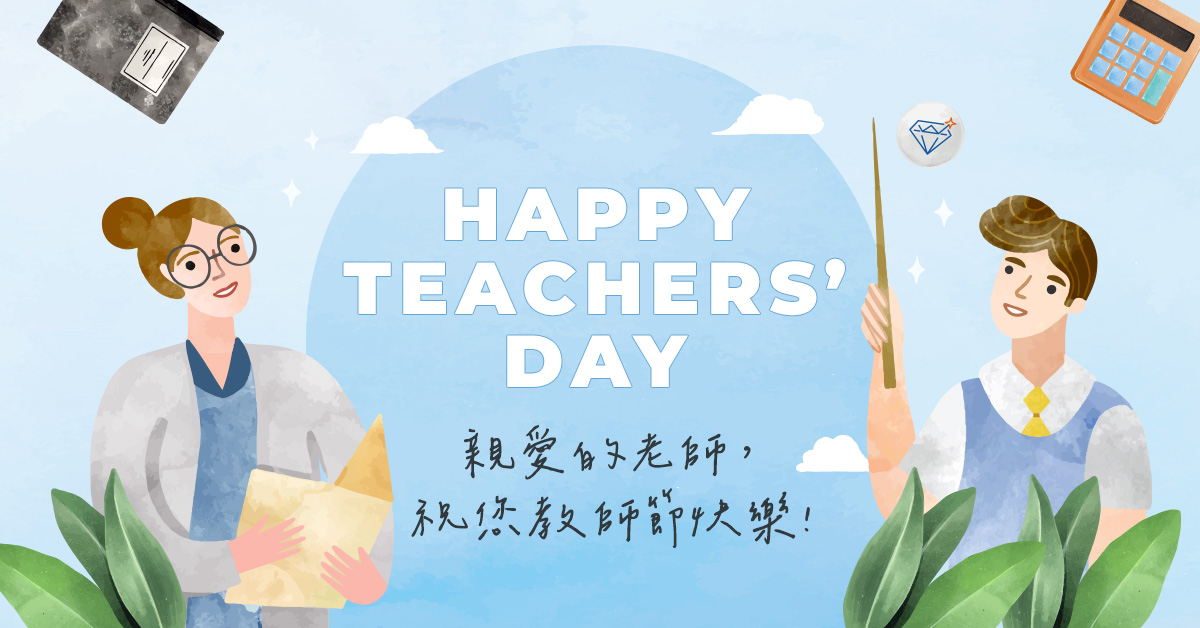
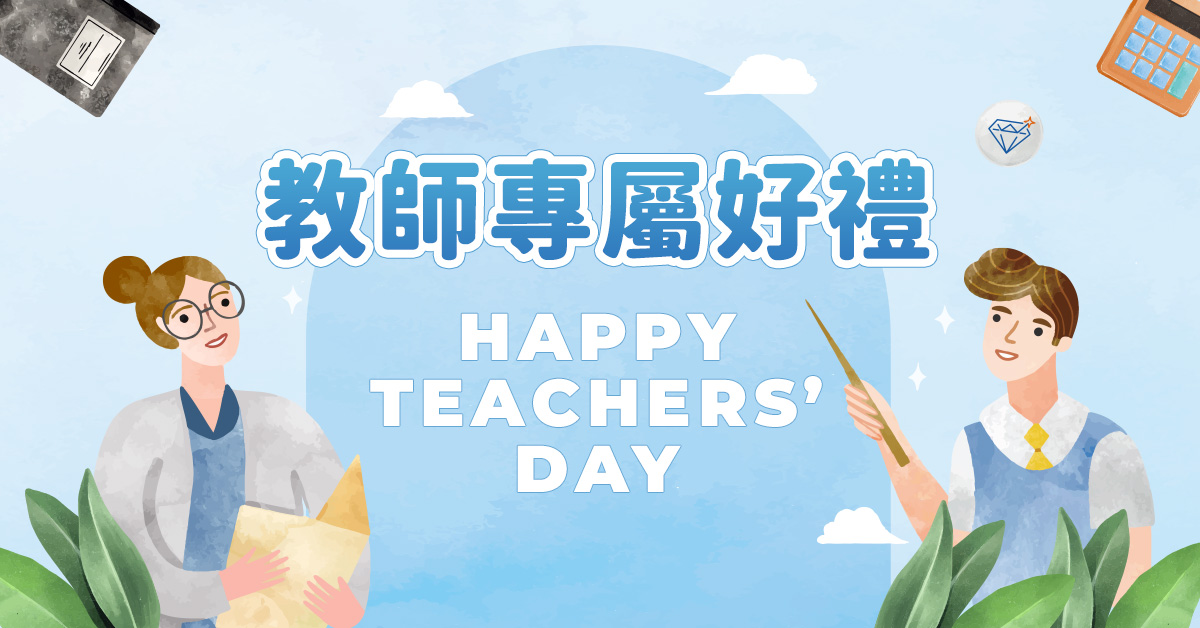
2

diff --git a/teacher/index.html b/teacher/index.html
@@ -7,13 +7,19 @@
 <link rel="shortcut icon" type="image/x-icon" href="https://www.yuantabank.com.tw/bank/resources/front/images/favicon.ico" />
 <title>元大銀行｜教師節快樂｜9愛教師禮 二大獨享優惠活動</title>
 <meta name="keywords" content="元大、元大銀行、教師節、教師節活動、9愛教師禮、LINE官方帳號綁定、行動支付、美元定存" />
-<meta name="description" content="全臺大專院校教職員於9月份憑教師證書/服務證至元大銀行臨櫃完成美元定存申辦，再綁定元大LINE官方帳號可享200元電子禮券，另使用任一行動支付連結元大銀行帳戶最高再享40%回饋。" />
+<meta name="description" content="全臺大專院校教職員於9月份憑教師證書/服務證至元大銀行臨櫃完成指定業務申辦，並綁定元大LINE官方帳號可享200元電子禮券，另使用任一行動支付連結元大銀行帳戶最高再享40%回饋。" />
 
 <meta property="og:title" content="元大銀行｜教師節快樂｜9愛教師禮 二大獨享優惠活動" />
 <meta property="og:site_name" content="元大銀行" />
 <meta property="og:url" content="https://www.yuantabank.com.tw/bankwebIMG/event/Bank_Act2023/happy_teachersday/index.html" />
-<meta property="og:description" content="全臺大專院校教職員於9月份憑教師證書/服務證至元大銀行臨櫃完成美元定存申辦，再綁定元大LINE官方帳號可享200元電子禮券，另使用任一行動支付連結元大銀行帳戶最高再享40%回饋。" />
+<meta property="og:description" content="全臺大專院校教職員於9月份憑教師證書/服務證至元大銀行臨櫃完成指定業務申辦，並綁定元大LINE官方帳號可享200元電子禮券，另使用任一行動支付連結元大銀行帳戶最高再享40%回饋。" />
 
+<!-- Facebook 縮圖 -->
+<link rel="image_src" href="https://www.yuantabank.com.tw/bankwebIMG/event/Bank_Act2023/happy_teachersday/images/fb.jpg" />
+<meta property="og:image" content="https://www.yuantabank.com.tw/bankwebIMG/event/Bank_Act2023/happy_teachersday/images/fb.jpg"/>
+<meta property="og:image:width" content="1200" />
+<meta property="og:image:height" content="628" />
+<meta property="og:type" content="website" />
 <style type="text/css">
 * {
     box-sizing: border-box;
@@ -80,16 +86,16 @@ th {
 }
 @media screen and (max-width: 450px) {
     table.column-break,
-	th.column-break,
-	table.MTcolumn-break,
-	th.MTcolumn-break {
-		display: block !important;
-		width: 100% !important;
-	}
-	th.mob-txt-left,
-	td.mob-txt-left {
-		text-align: left !important;
-	}
+    th.column-break,
+    table.MTcolumn-break,
+    th.MTcolumn-break {
+        display: block !important;
+        width: 100% !important;
+    }
+    th.mob-txt-left,
+    td.mob-txt-left {
+        text-align: left !important;
+    }
     .qrcode {
         display: none !important;
     }
@@ -103,13 +109,30 @@ th {
     .info-subtit {font-size: 16px !important;}
 }
 </style>
+<!-- Google Tag Manager -->
+    
+<script>
+(function (w, d, s, l, i) {
+  w[l] = w[l] || [];
+  w[l].push({
+    'gtm.start': new Date().getTime(),
+    event: 'gtm.js'
+  });
+  var f = d.getElementsByTagName(s)[0],
+      j = d.createElement(s),
+      dl = l != 'dataLayer' ? '&l=' + l : '';
+  j.async = true;
+  j.src = 'https://www.googletagmanager.com/gtm.js?id=' + i + dl;
+  f.parentNode.insertBefore(j, f);
+})(window, document, 'script', 'dataLayer', 'GTM-TDNQKZC');
+</script>
+
+<!-- End Google Tag Manager -->
 </head>
 
 <body leftmargin="0" topmargin="0" marginwidth="0" marginheight="0" bgcolor="#ffffff">
     <!-- inbox-preview -->
-    <div class="inbox-preview" style="display: none; font-size: 0; max-height: 0; line-height: 0; padding: 0; mso-hide: all">全臺大專院校教職員於9月份憑教師證書/服務證至元大銀行臨櫃完成美元定存申辦，再綁定元大LINE官方帳號可享200元電子禮券，另使用任一行動支付連結元大銀行帳戶最高再享40%回饋。</div>
-    <!-- link -->
-    <p style="text-align: center;"><span style="color: #1b74c7; font-size: 11pt;"><a style="color: #1b74c7;" href="mailhunteronlineedm.aspx"><span style="text-decoration: underline;">【若無法顯示，請點此觀看網頁版，謝謝！】</span></a></span></p>
+    <div class="inbox-preview" style="display: none; font-size: 0; max-height: 0; line-height: 0; padding: 0; mso-hide: all">全臺大專院校教職員於9月份憑教師證書/服務證至元大銀行臨櫃完成指定業務申辦，並綁定元大LINE官方帳號可享200元電子禮券，另使用任一行動支付連結元大銀行帳戶最高再享40%回饋。</div>
     <table width="950" align="center" cellspacing="0" cellpadding="0" border="0" class="wrapper">
         <tbody>
             <!-- CI bar & Banner -->
@@ -529,7 +552,7 @@ th {
                             </td>
                             <td width="30" style="font-size: 0" class="spacer2">
                                 <img src="images/spacer.gif" width="30" alt="" border="0" />
-							</td>
+                            </td>
                         </tr>
                     </table>
                 </td>
@@ -891,7 +914,7 @@ th {
                             <td width="30" style="font-size: 0" class="spacer2">
                                 <img src="images/spacer.gif" width="30" alt="" border="0" />
                             </td>
-						</tr>
+                        </tr>
                     </table>
                 </td>
             </tr>
@@ -1066,5 +1089,15 @@ th {
             </tr>
         </tbody>
     </table>
+    <!-- Google Tag Manager (noscript) -->
+    <noscript><iframe src="https://www.googletagmanager.com/ns.html?id=GTM-TDNQKZC" height="0" width="0" style="display:none;visibility:hidden"></iframe></noscript>
+    <!-- End Google Tag Manager (noscript) -->
+    <!-- Google tag (gtag.js) --> 
+    <script async src="https://www.googletagmanager.com/gtag/js?id=G-08TZJFEECX"></script>
+    <script> window.dataLayer = window.dataLayer || [];
+        function gtag(){dataLayer.push(arguments);}
+        gtag('js', new Date());
+        gtag('config', 'G-08TZJFEECX'); 
+    </script>
 </body>
 </html>

diff --git a/teacher/web-notes.html b/teacher/web-notes.html
@@ -141,7 +141,7 @@
                                             <table cellspacing="0" cellpadding="0" border="0" width="100%">
                                                     <tr><td valign="top" style="color: #3333333; font-size: 14px; line-height: 24px;">1.&ensp;</td><td style="color: #3333333; font-size: 14px; line-height: 24px;">參加者於參加元大銀行舉辦之「9愛教師禮」活動時，即視同已詳閱並同意接受本活動辦法及相關注意事項規定。</td></tr>
                                                     <tr><td valign="top" style="color: #3333333; font-size: 14px; line-height: 24px;">2.&ensp;</td><td style="color: #3333333; font-size: 14px; line-height: 24px;">本活動適用於全臺大專院校之教職員。</td></tr>
-                                                    <tr><td valign="top" style="color: #3333333; font-size: 14px; line-height: 24px;">3.&ensp;</td><td style="color: #3333333; font-size: 14px; line-height: 24px;">本活動臨櫃申辦美元定存業務，其優惠方案與相關辦法依本行公告內容為準。</td></tr>
+                                                    <tr><td valign="top" style="color: #3333333; font-size: 14px; line-height: 24px;">3.&ensp;</td><td style="color: #3333333; font-size: 14px; line-height: 24px;">本活動臨櫃申辦指定業務(含存款/外匯、貸款、投資理財、信用卡等)，其優惠方案與相關辦法依本行公告內容為準。</td></tr>
                                                     <tr>
                                                     	<td valign="top" style="color: #3333333; font-size: 14px; line-height: 24px;">4.&ensp;</td><td style="color: #3333333; font-size: 14px; line-height: 24px;">欲使用元大銀行行動支付請參照以下作業方式：
                                                     		<table>
